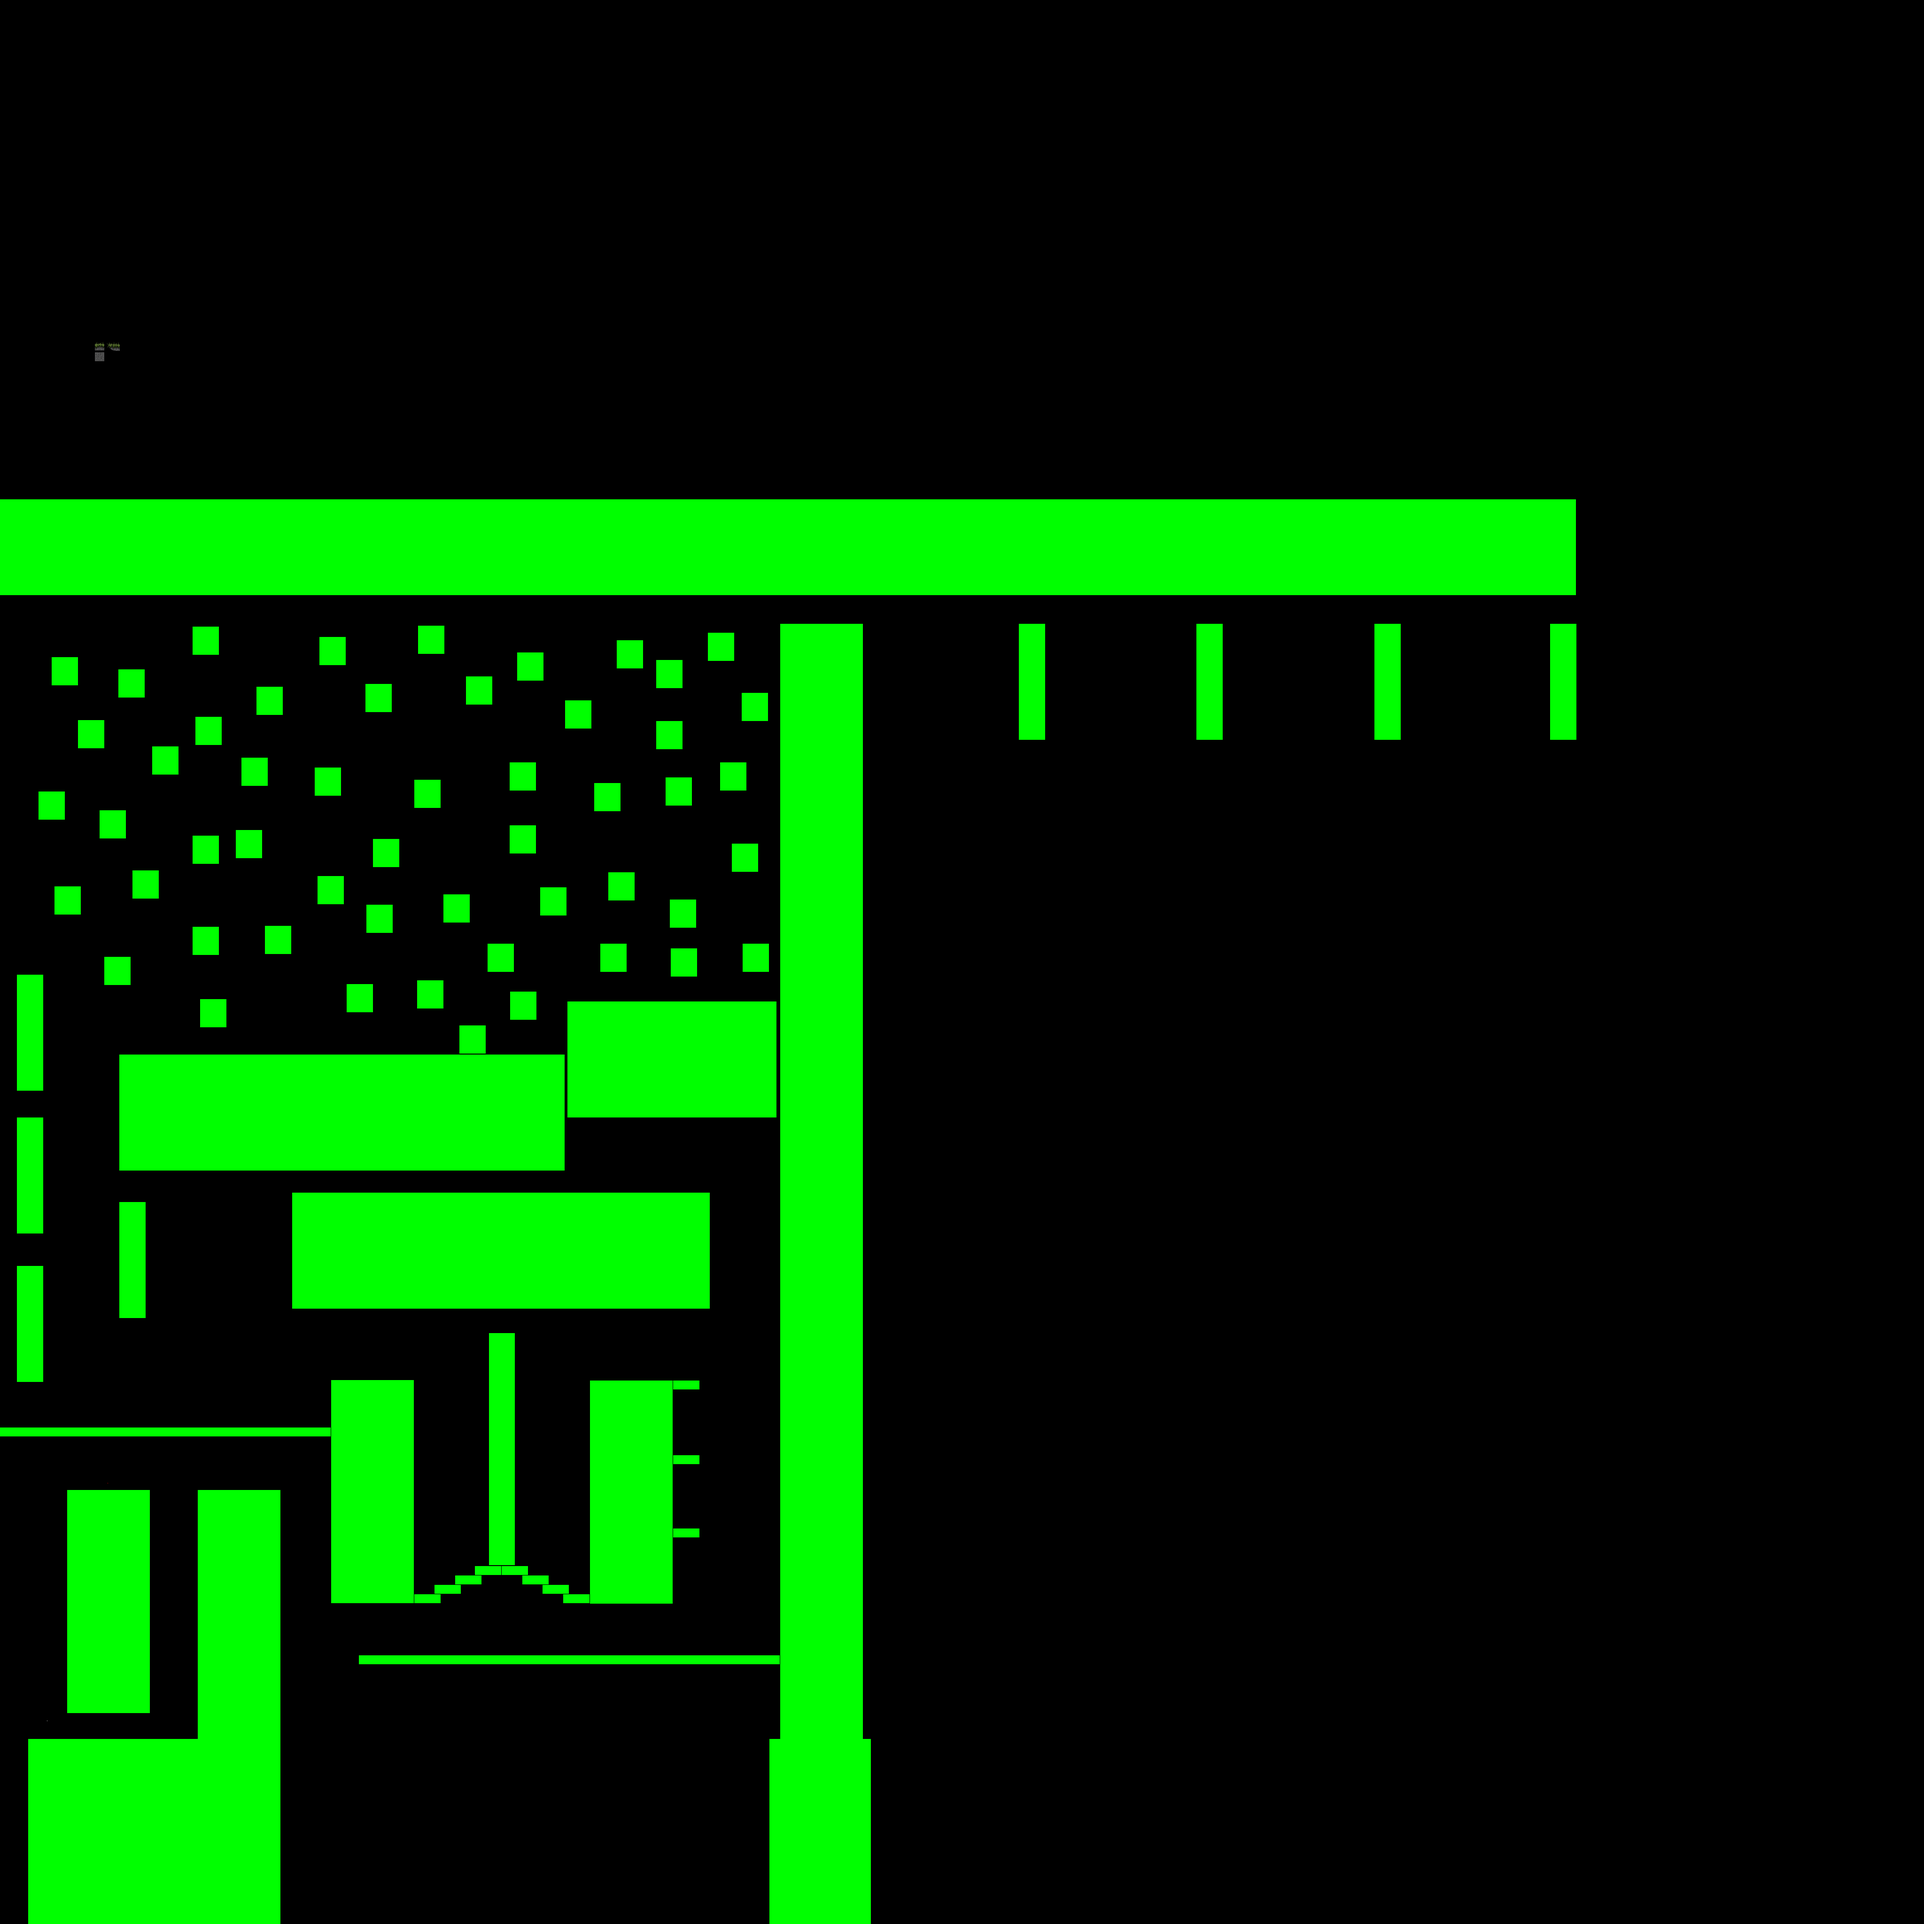
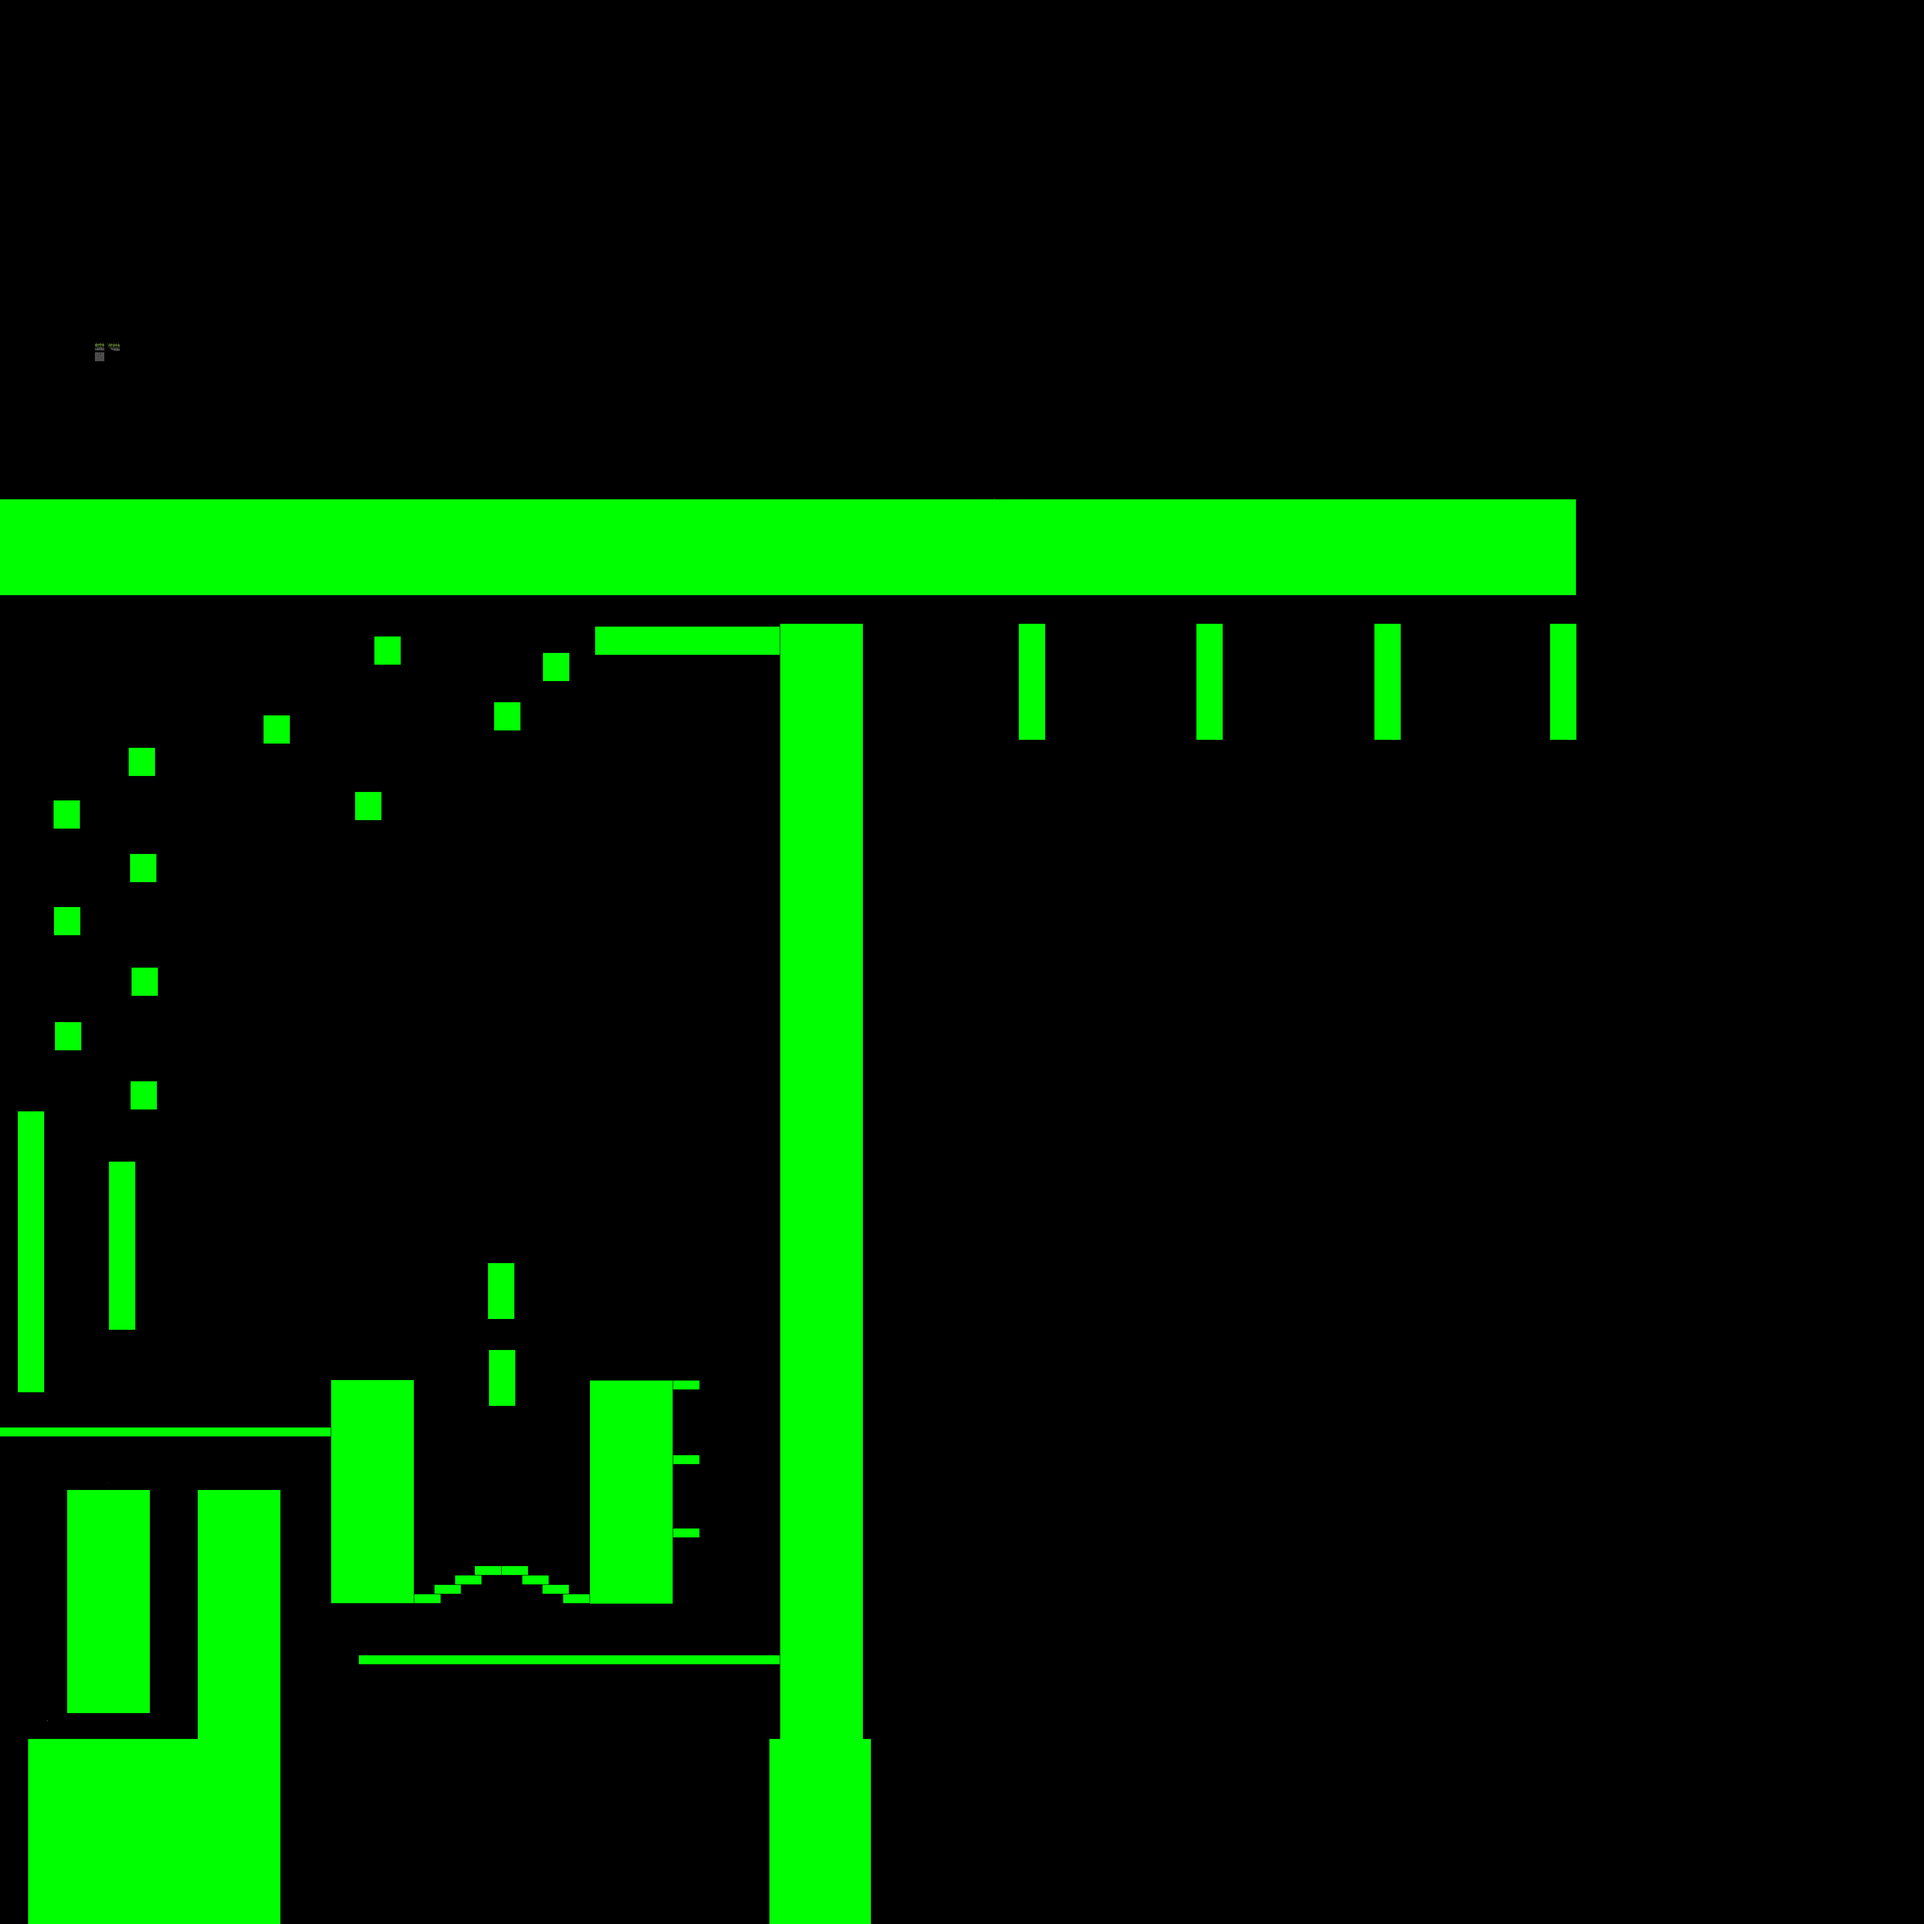
New TestLevel and fixed the walljumper.pack

Changed region(s): [[0.0, 0.3125, 0.4062, 0.8125], [0.0938, 0.3125, 0.125, 0.3438]]

diff --git a/WallJumper/src/walljumper/tools/Assets.java b/WallJumper/src/walljumper/tools/Assets.java
@@ -80,7 +80,7 @@ public class Assets implements Disposable, AssetErrorListener{
 		
 		public Portal(TextureAtlas atlas){
 			portal = atlas.findRegions("portal");
-			aniPortal = new Animation(1 / 10f, portal, Animation.NORMAL);
+			aniPortal = new Animation(1 / 10f, portal, Animation.LOOP);
 		}
 	}
 	
